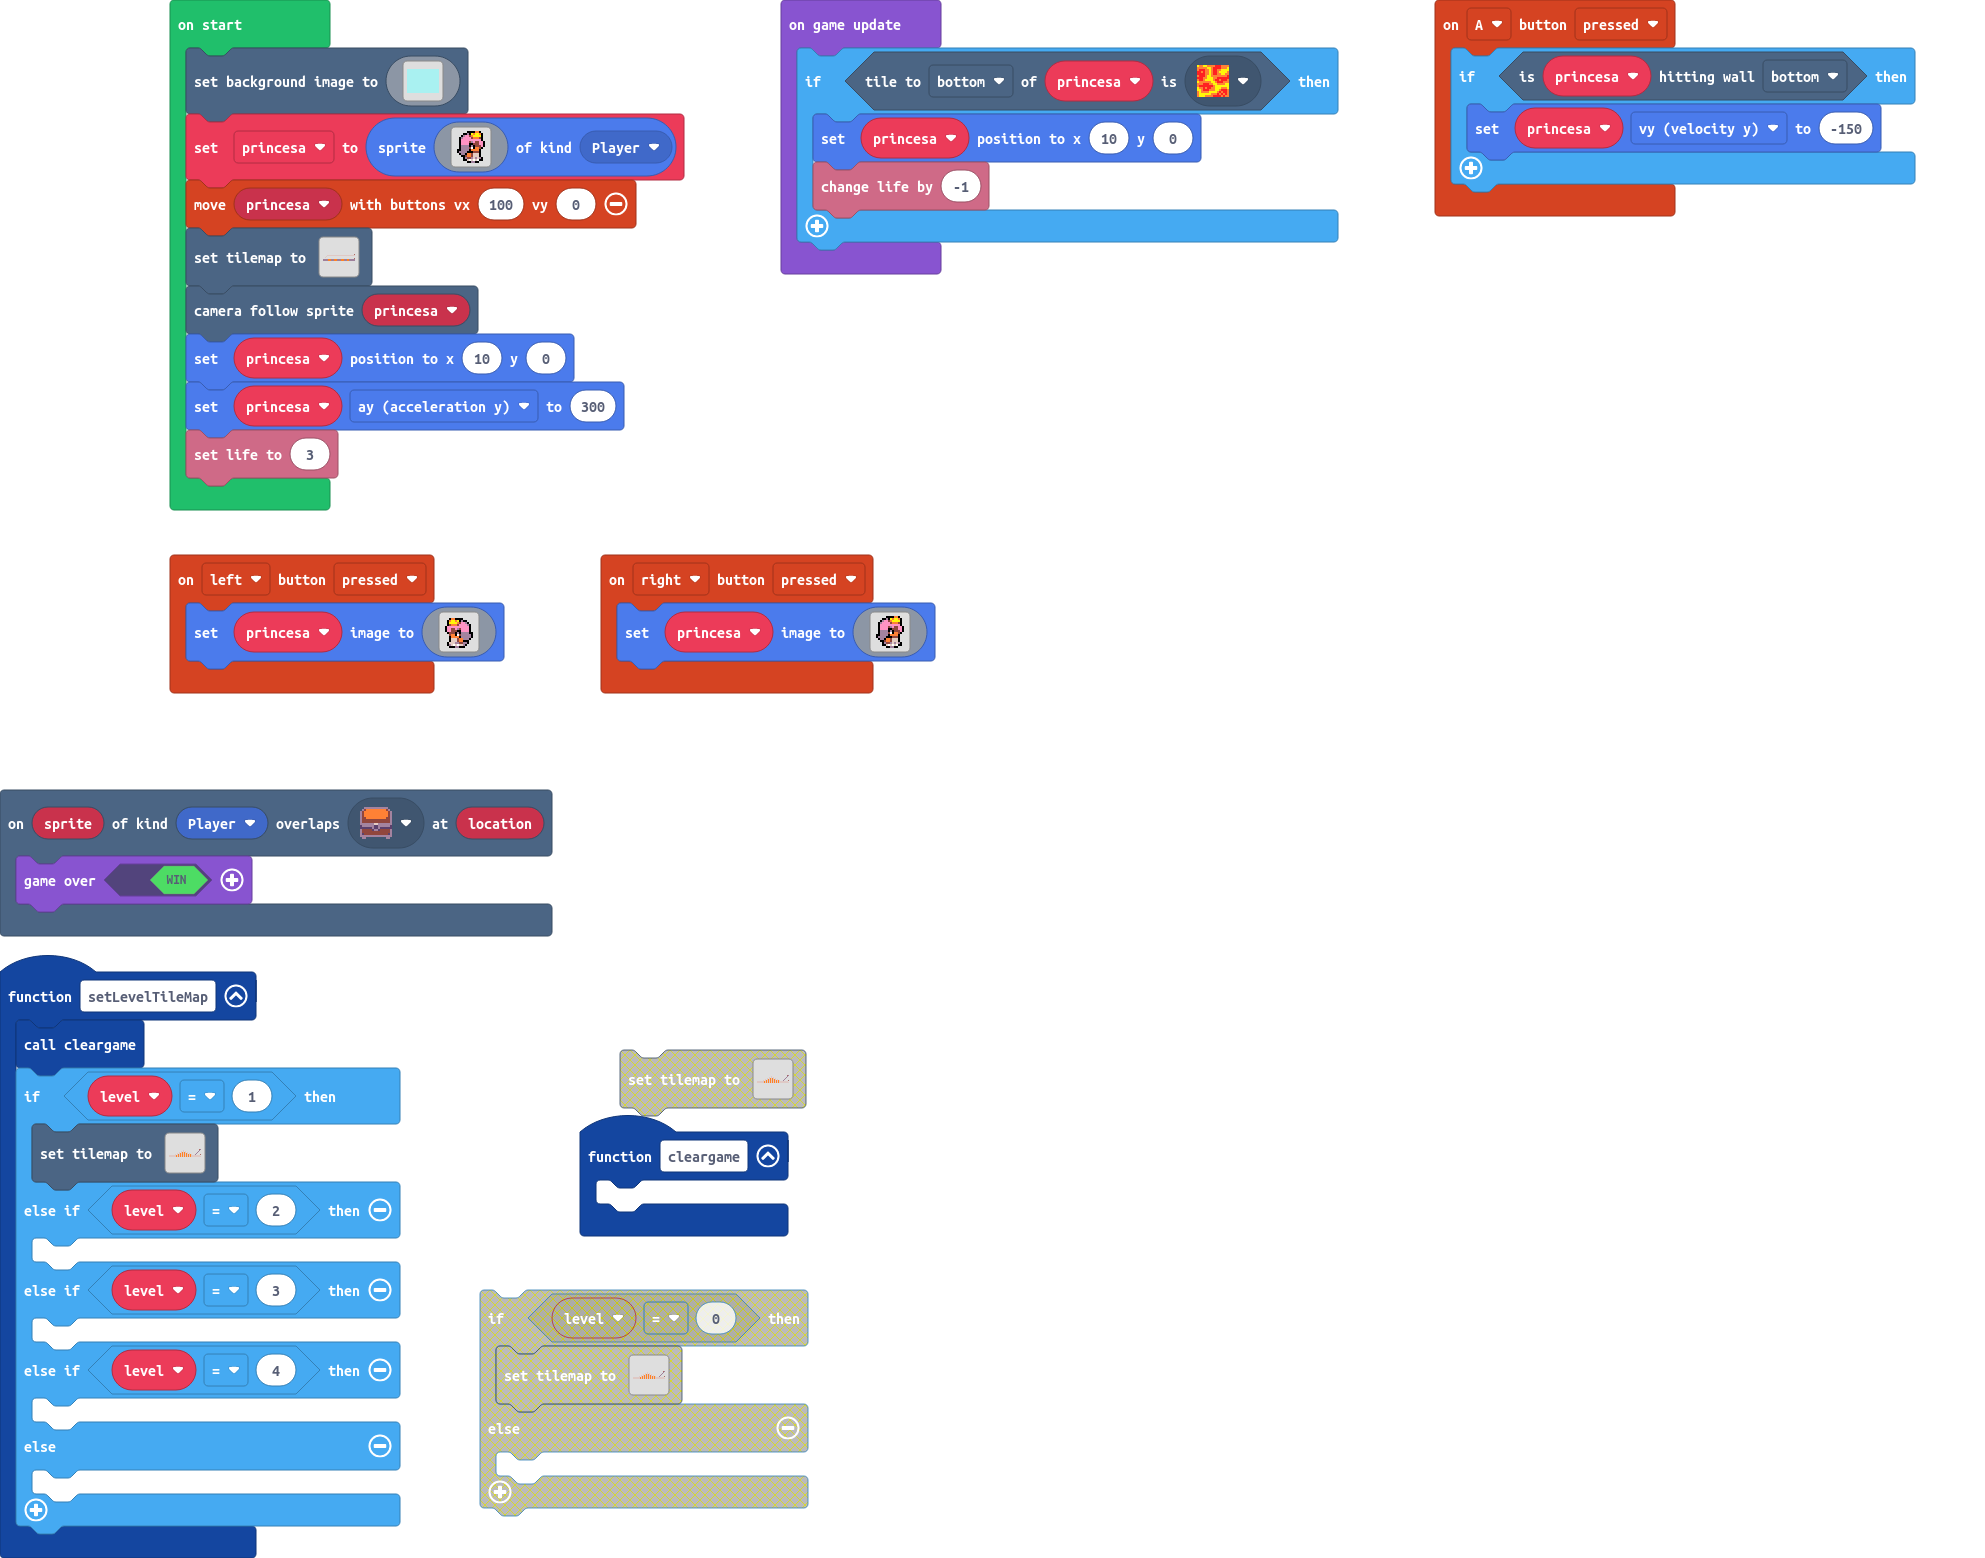
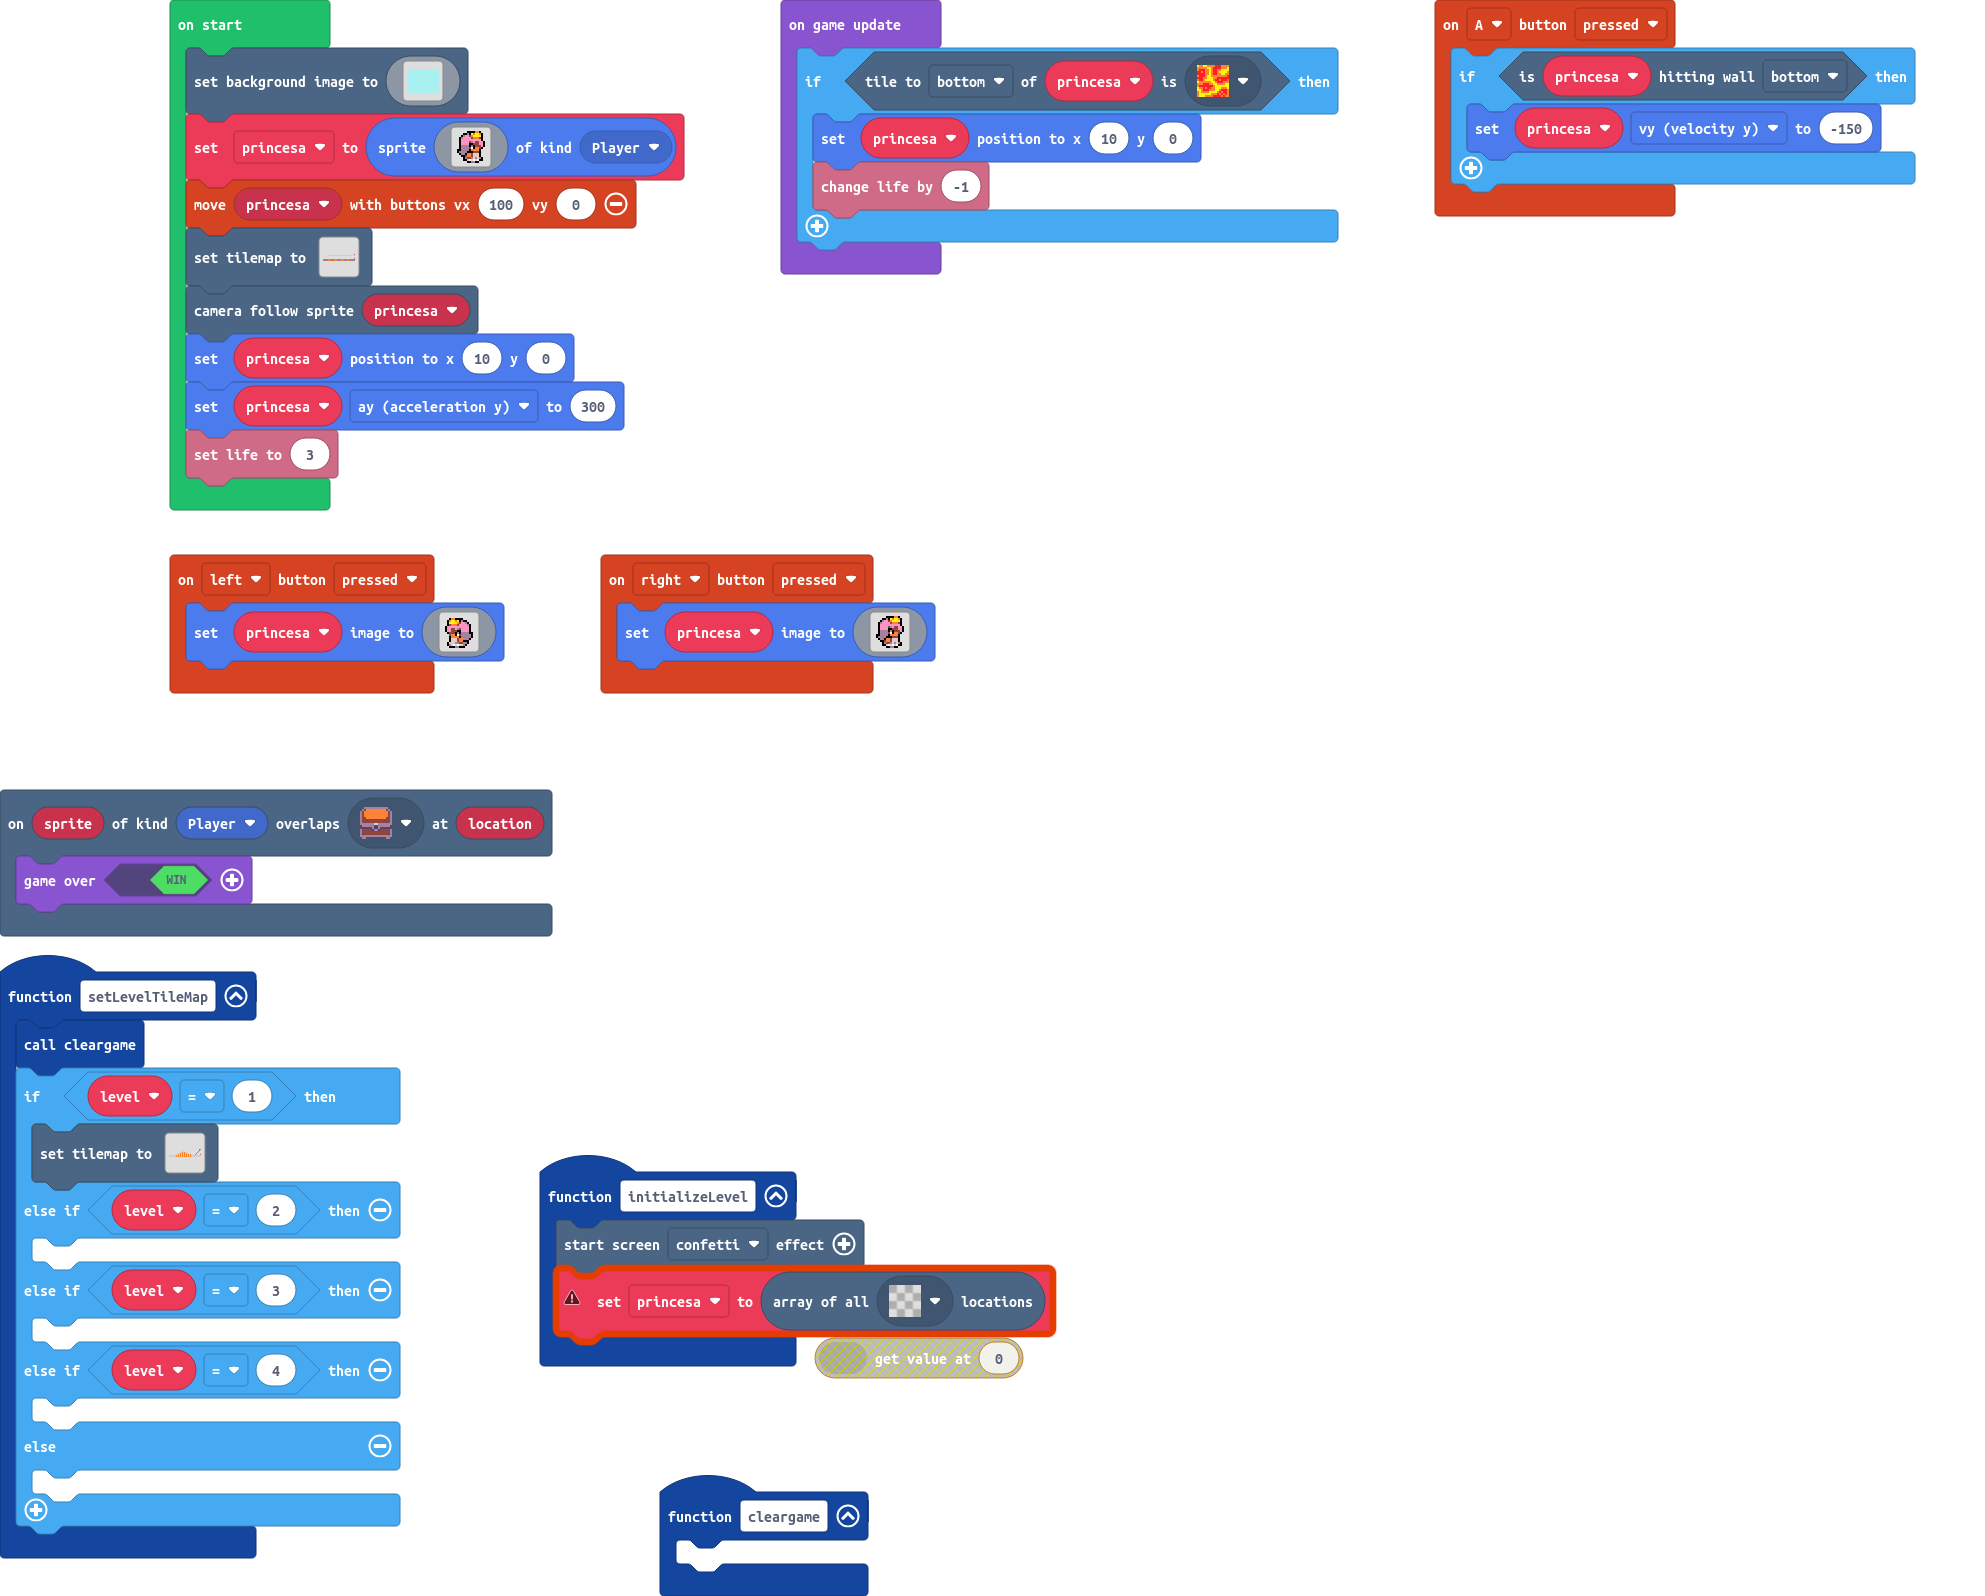
hice que algo lance confeti

diff --git a/images.g.ts b/images.g.ts
@@ -179,6 +179,25 @@ namespace myImages {
 . . . . f f d 1 d 1 d 1 f f . . 
 . . . . . . f f b b f f . . . . 
 `;
+            case "image1":
+            case "Temporary asset":return img`
+. . . . . . f f f f 4 4 f . . . 
+. . . . f f b f 5 4 5 5 4 f . . 
+. . . f b 3 3 e 4 5 5 5 5 f . . 
+. . f b 3 3 3 3 e 4 4 4 e f . . 
+. . f 3 3 3 3 3 3 3 3 3 3 f . . 
+. . f 3 3 3 3 e b 3 e e 3 3 f . 
+. . f 3 3 3 3 f f e e e 3 3 f . 
+. . f b b b b f b f e e e 3 f . 
+. . f b b b b e 1 f 4 4 e f . . 
+. f f b b b b f 4 4 4 4 f . . . 
+. f b b b b f f f e e e f . . . 
+. . f b b f 4 4 e d d d f . . . 
+. . . f f e 4 4 e d d d f . . . 
+. . . . f b e e b d b d b f . . 
+. . . . f f d 1 d 1 d 1 f f . . 
+. . . . . . f f b b f f . . . . 
+`;
         }
         return null;
     })

diff --git a/main.ts b/main.ts
@@ -64,6 +64,10 @@ controller.right.onEvent(ControllerButtonEvent.Pressed, function () {
         . . . . . . f f b b f f . . . . 
         `)
 })
+function initializeLevel () {
+    effects.confetti.startScreenEffect()
+    princesa = tiles.getTilesByType(assets.tile`transparency16`)
+}
 let princesa: Sprite = null
 scene.setBackgroundImage(img`
     9999999999999999999999999999999999999999999999999999999999999999999999999999999999999999999999999999999999999999999999999999999999999999999999999999999999999999
